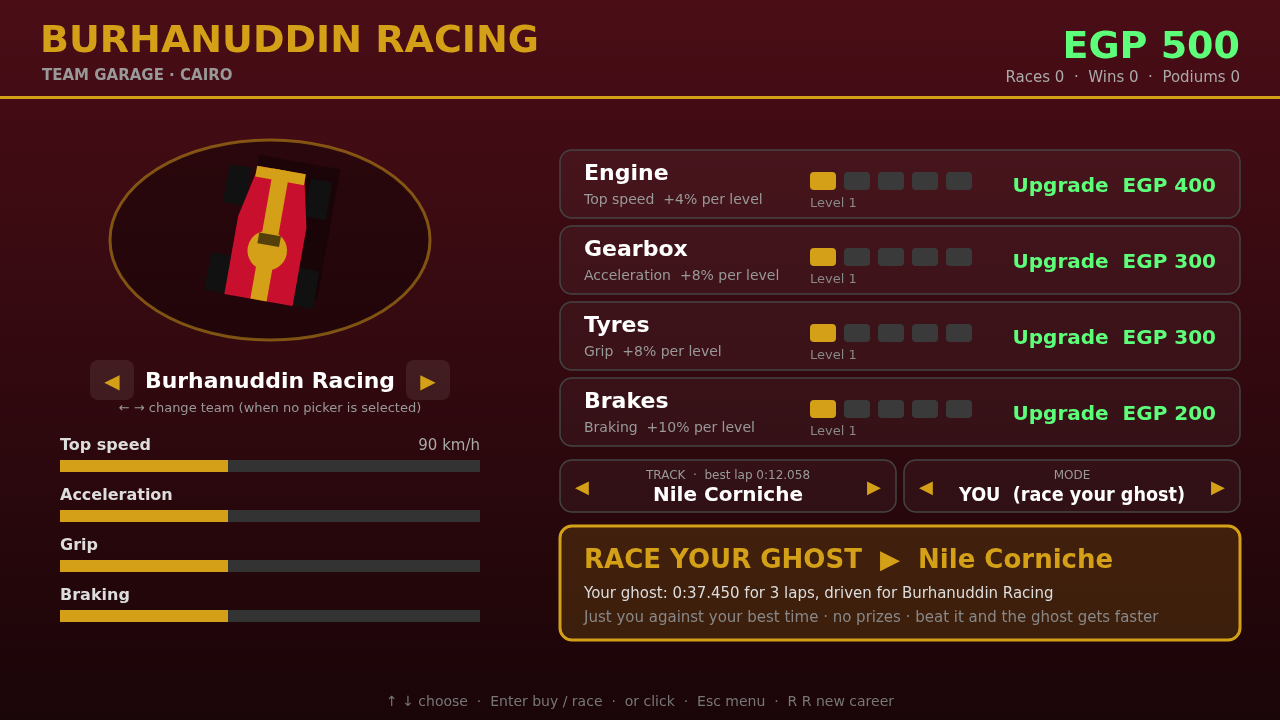
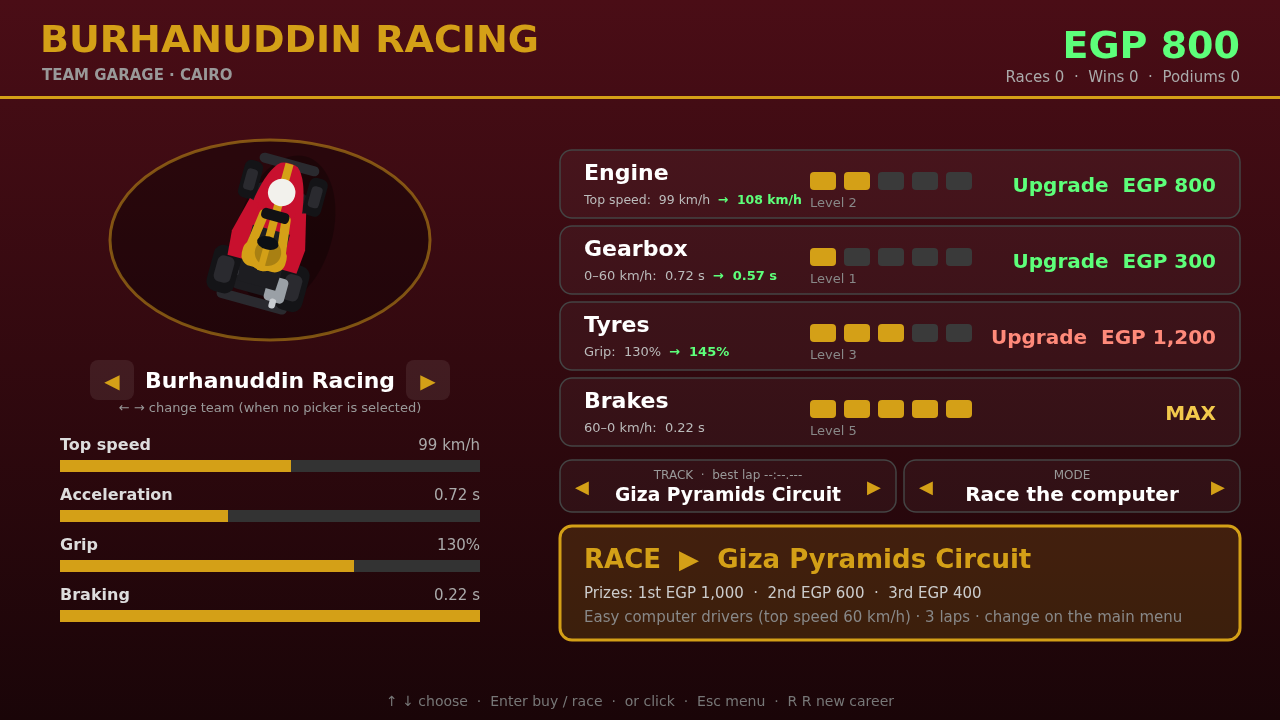
Much bigger upgrades and better acceleration; garage shows real numbers
Upgrades were tiny (engine +4 km/h per level, gearbox 0-60 from 1.17 s to
0.89 s at max). Now: engine +10% top speed per level (90 -> 126 km/h),
gearbox +25% acceleration per level (0-60 in 0.37 s at max), tyres +15% grip
and 4% quicker turning, brakes +20%. The kart's base acceleration is also
better (0-60 in 0.74 s, was 1.17 s) and keeps pulling hard up to near top
speed. The garage shows what you have now and what the next level gives, in
km/h, seconds and percent. A fully upgraded kart laps ~20-25% quicker.
Version 10.

Claude-Session: https://claude.ai/code/session_01TEYMFR7s26ivgWhC1LWkUh

diff --git a/src/economy.js b/src/economy.js
@@ -12,13 +12,20 @@ const ECONOMY = {
 
   maxLevel: 5,
 
-  // Each upgrade improves one kart stat by `perLevel` (0.05 = 5%) per level.
+  // Each upgrade improves one kart stat by `perLevel` (0.25 = 25% more) for
+  // every level you buy, so a fully upgraded part is 4 x perLevel better than
+  // the one you start with. `also` upgrades a second stat at the same time.
   // `prices` are the cost of level 2, 3, 4 and 5.
+  //
+  //   Engine   +10% top speed per level      -> 90 km/h up to 126 km/h
+  //   Gearbox  +25% acceleration per level   -> twice as quick off the line at level 5
+  //   Tyres    +15% grip per level, and the kart turns 4% quicker
+  //   Brakes   +20% braking per level        -> stops in about half the distance
   upgrades: {
-    engine:  { name: 'Engine',  improves: 'Top speed',    stat: 'topSpeed', perLevel: 0.04, prices: [400, 800, 1500, 3000] },
-    gearbox: { name: 'Gearbox', improves: 'Acceleration', stat: 'accel',    perLevel: 0.08, prices: [300, 600, 1200, 2500] },
-    tyres:   { name: 'Tyres',   improves: 'Grip',         stat: 'grip',     perLevel: 0.08, prices: [300, 600, 1200, 2500] },
-    brakes:  { name: 'Brakes',  improves: 'Braking',      stat: 'brake',    perLevel: 0.10, prices: [200, 400, 800, 1600] },
+    engine:  { name: 'Engine',  improves: 'Top speed',    stat: 'topSpeed', perLevel: 0.10, prices: [400, 800, 1500, 3000] },
+    gearbox: { name: 'Gearbox', improves: 'Acceleration', stat: 'accel',    perLevel: 0.25, prices: [300, 600, 1200, 2500] },
+    tyres:   { name: 'Tyres',   improves: 'Grip',         stat: 'grip',     perLevel: 0.15, also: { steer: 0.04 }, prices: [300, 600, 1200, 2500] },
+    brakes:  { name: 'Brakes',  improves: 'Braking',      stat: 'brake',    perLevel: 0.20, prices: [200, 400, 800, 1600] },
   },
 };
 
@@ -106,7 +113,30 @@ function statsForUpgrades(upgrades) {
   const stats = Object.assign({}, KART_BASE_STATS);
   for (const key of UPGRADE_ORDER) {
     const u = ECONOMY.upgrades[key];
-    stats[u.stat] = KART_BASE_STATS[u.stat] * (1 + u.perLevel * (upgrades[key] - 1));
+    const steps = upgrades[key] - 1;
+    stats[u.stat] = KART_BASE_STATS[u.stat] * (1 + u.perLevel * steps);
+    for (const [stat, perLevel] of Object.entries(u.also || {})) {
+      stats[stat] = KART_BASE_STATS[stat] * (1 + perLevel * steps);
+    }
   }
   return stats;
+}
+
+// Seconds to get from a standstill up to `kmh`, for a kart with these stats
+// (worked out from the same rule the kart uses to accelerate).
+function secondsToReach(stats, kmh) {
+  const v = Math.min(kmh / 0.36, stats.topSpeed * 0.995), T = stats.topSpeed;
+  return (T / (2 * stats.accel)) * Math.log((T + v) / (T - v));
+}
+
+// What an upgrade does, in numbers a player can picture. `level` is the level of
+// that one upgrade; the others stay as they are now.
+function upgradeReadout(key, level) {
+  const upgrades = Object.assign({}, Career.data.upgrades);
+  upgrades[key] = level;
+  const s = statsForUpgrades(upgrades);
+  if (key === 'engine') return { label: 'Top speed', value: Math.round(s.topSpeed * 0.36) + ' km/h' };
+  if (key === 'gearbox') return { label: '0–60 km/h', value: secondsToReach(s, 60).toFixed(2) + ' s' };
+  if (key === 'tyres') return { label: 'Grip', value: Math.round((s.grip / KART_BASE_STATS.grip) * 100) + '%' };
+  return { label: '60–0 km/h', value: (60 / 0.36 / s.brake).toFixed(2) + ' s' };
 }

diff --git a/src/garage.js b/src/garage.js
@@ -190,13 +190,13 @@ const Garage = {
   },
 
   drawStats(ctx) {
-    const stats = Career.kartStats();
     const rows = [
-      ['Top speed', Math.round(stats.topSpeed * 0.36) + ' km/h', 'engine'],
+      ['Top speed', null, 'engine'],
       ['Acceleration', null, 'gearbox'],
       ['Grip', null, 'tyres'],
       ['Braking', null, 'brakes'],
     ];
+    rows.forEach((r) => { r[1] = upgradeReadout(r[2], Career.level(r[2])).value; });
     const x = 60, w = 420;
     rows.forEach(([label, value, key], i) => {
       const y = 450 + i * 50;
@@ -230,9 +230,23 @@ const Garage = {
     this.drawButtonBox(ctx, b, on);
 
     HUD.text(ctx, u.name, b.x + 24, b.y + 30, { font: 'bold 22px system-ui, sans-serif', outline: false });
-    HUD.text(ctx, u.improves + '  +' + Math.round(u.perLevel * 100) + '% per level', b.x + 24, b.y + 54, {
-      font: '14px system-ui, sans-serif', color: '#999', outline: false,
+    const now = upgradeReadout(b.key, lvl);
+    const next = price == null ? null : upgradeReadout(b.key, lvl + 1);
+    // "Top speed: 99 km/h  →  108 km/h" (what you have now, then what the next level gives)
+    const nowText = now.label + ':  ' + now.value, nextText = next ? '→  ' + next.value : '';
+    ctx.font = '13px system-ui, sans-serif';
+    const nowW = ctx.measureText(nowText).width;
+    ctx.font = 'bold 13px system-ui, sans-serif';
+    const nextW = next ? ctx.measureText(nextText).width + 8 : 0;
+    const squeeze = Math.min(1, 218 / (nowW + nextW));
+    HUD.text(ctx, nowText, b.x + 24, b.y + 54, {
+      font: '13px system-ui, sans-serif', color: '#bbb', outline: false, maxWidth: nowW * squeeze,
     });
+    if (next) {
+      HUD.text(ctx, nextText, b.x + 24 + (nowW + 8) * squeeze, b.y + 54, {
+        font: 'bold 13px system-ui, sans-serif', color: '#5dff7a', outline: false, maxWidth: (nextW - 8) * squeeze,
+      });
+    }
 
     // Level pips.
     for (let i = 0; i < ECONOMY.maxLevel; i++) {

diff --git a/index.html b/index.html
@@ -29,23 +29,23 @@
   <canvas id="game" width="1280" height="720"></canvas>
 
   <!-- Plain scripts (not modules) so the game works by double-clicking this file.
-       The ?v=9 stops a browser mixing old and new files after an update: bump it with GAME_VERSION in util.js. -->
-  <script src="src/util.js?v=9"></script>
-  <script src="src/input.js?v=9"></script>
-  <script src="src/save.js?v=9"></script>
-  <script src="src/track.js?v=9"></script>
-  <script src="src/tracks/giza.js?v=9"></script>
-  <script src="src/tracks/cairo.js?v=9"></script>
-  <script src="src/tracks/nile.js?v=9"></script>
-  <script src="src/teams.js?v=9"></script>
-  <script src="src/kart.js?v=9"></script>
-  <script src="src/ai.js?v=9"></script>
-  <script src="src/economy.js?v=9"></script>
-  <script src="src/ghost.js?v=9"></script>
-  <script src="src/race.js?v=9"></script>
-  <script src="src/view3d.js?v=9"></script>
-  <script src="src/hud.js?v=9"></script>
-  <script src="src/garage.js?v=9"></script>
-  <script src="src/main.js?v=9"></script>
+       The ?v=10 stops a browser mixing old and new files after an update: bump it with GAME_VERSION in util.js. -->
+  <script src="src/util.js?v=10"></script>
+  <script src="src/input.js?v=10"></script>
+  <script src="src/save.js?v=10"></script>
+  <script src="src/track.js?v=10"></script>
+  <script src="src/tracks/giza.js?v=10"></script>
+  <script src="src/tracks/cairo.js?v=10"></script>
+  <script src="src/tracks/nile.js?v=10"></script>
+  <script src="src/teams.js?v=10"></script>
+  <script src="src/kart.js?v=10"></script>
+  <script src="src/ai.js?v=10"></script>
+  <script src="src/economy.js?v=10"></script>
+  <script src="src/ghost.js?v=10"></script>
+  <script src="src/race.js?v=10"></script>
+  <script src="src/view3d.js?v=10"></script>
+  <script src="src/hud.js?v=10"></script>
+  <script src="src/garage.js?v=10"></script>
+  <script src="src/main.js?v=10"></script>
 </body>
 </html>

diff --git a/src/kart.js b/src/kart.js
@@ -6,7 +6,7 @@
 // Later, garage upgrades will change these stats.
 const KART_BASE_STATS = {
   topSpeed: 250,   // pixels per second on asphalt
-  accel: 230,      // how hard the engine pushes
+  accel: 270,      // how hard the engine pushes
   brake: 420,      // how hard the brakes slow you down
   grip: 9,         // how quickly sideways sliding stops (higher = more grip)
   steer: 2.9,      // how fast the kart turns (radians per second)
@@ -82,8 +82,9 @@ class Kart {
 
     // Engine and brakes.
     if (controls.throttle && !controls.brake) {
-      // Pushes less the closer you are to top speed.
-      forward += s.accel * dt * Math.max(0, 1 - forward / topSpeed);
+      // Pulls hard right up to near top speed (it only fades in the last stretch).
+      const f = forward / topSpeed;
+      forward += s.accel * dt * Math.max(0, 1 - f * f);
     } else if (controls.brake) {
       if (forward > 5) {
         forward = Math.max(0, forward - s.brake * dt);

diff --git a/src/util.js b/src/util.js
@@ -2,7 +2,7 @@
 
 // Bump this (and the ?v= numbers in index.html) whenever you release a change.
 // It's shown on the title screen so you can tell which version you are playing.
-const GAME_VERSION = '9  ·  2 Oct 2026';
+const GAME_VERSION = '10  ·  2 Oct 2026';
 
 // The screen is always 1280 x 720. The world (the map the tracks are built on)
 // is TRACK_SCALE times bigger in each direction, so a bigger TRACK_SCALE means

diff --git a/README.md b/README.md
@@ -74,8 +74,8 @@ Pick the mode next to the track in the garage.
   | Medium | about 78 km/h | ×1.5 |
   | Hard | about 100 km/h | ×2 |
 
-  Your own kart starts at 90 km/h and reaches 104 km/h with a fully upgraded engine,
-  so on Hard you'll need upgrades to keep up.
+  Your own kart starts at 90 km/h and reaches 126 km/h with a fully upgraded engine,
+  so on Hard you'll need some upgrades to keep up on the straights.
 - **YOU (race your ghost)** — just you against a see-through copy of your best race
   on that track, driving *exactly* the way you drove it (same line, same speed, same
   mistakes). A gauge at the top shows how far ahead (green) or behind (red) your ghost
@@ -107,7 +107,24 @@ Your best lap on each track is saved as the track record.
 - Live race order at the top of the screen, full results table at the end
 - Lap timer, last/best lap, speedometer, saved track record
 - Career mode: prize money for every finishing position, and a garage with
-  4 upgrades × 5 levels that really change how the kart drives
+  4 upgrades × 5 levels that really change how the kart drives (see below)
+
+## Upgrades
+
+![The garage](screenshot-garage.png)
+
+The garage shows what each upgrade does in real numbers: what you have now, and what the next level gives.
+
+| Upgrade | Each level | Starts at | Fully upgraded |
+|---|---|---|---|
+| **Engine** | +10% top speed | 90 km/h | 126 km/h |
+| **Gearbox** | +25% acceleration | 0–60 km/h in 0.74 s | 0–60 km/h in 0.37 s (half the time) |
+| **Tyres** | +15% grip, and the kart turns 4% quicker | 100% | 160% |
+| **Brakes** | +20% braking | 60–0 km/h in 0.38 s | 60–0 km/h in 0.21 s |
+
+In my test races a fully upgraded kart did a lap about 20–25% quicker than a stock one
+(about 24 s → 18 s on the Giza Pyramids Circuit). The Engine makes the biggest difference
+to lap times; the Gearbox is for the start and for getting back up to speed after corners and sand.
 
 ## Make it your own
 

diff --git a/PLAN.md b/PLAN.md
@@ -74,10 +74,10 @@ cities (Dubai Marina, Riyadh, Amman/Petra desert, Alexandria seaside).
 ### Upgrades (each has levels 1 → 5)
 | Part | Improves | Price per level (EGP) |
 |---|---|---|
-| Engine | Top speed | 400, 800, 1,500, 3,000 |
-| Gearbox | Acceleration | 300, 600, 1,200, 2,500 |
-| Tyres | Grip | 300, 600, 1,200, 2,500 |
-| Brakes | Braking | 200, 400, 800, 1,600 |
+| Engine | Top speed, +10% per level (90 → 126 km/h) | 400, 800, 1,500, 3,000 |
+| Gearbox | Acceleration, +25% per level (twice as quick at level 5) | 300, 600, 1,200, 2,500 |
+| Tyres | Grip +15% per level, and turns 4% quicker | 300, 600, 1,200, 2,500 |
+| Brakes | Braking, +20% per level | 200, 400, 800, 1,600 |
 | Paint & number | Looks only | 100 each |
 
 ### Prize money (per race, 6 karts)
@@ -190,3 +190,4 @@ burhanuddin-racing-gokart/
    Set by any finished race; per track; no prizes.
 9. Computer-driver top speeds: **Easy ≈ 60, Medium ≈ 78, Hard ≈ 100 km/h.**
 10. **Big tracks:** the map is `TRACK_SCALE` (2) times bigger than one screen; the top-down camera follows the kart.
+11. **Upgrades are big:** engine 90 → 126 km/h, gearbox twice the acceleration, shown in real numbers in the garage.
